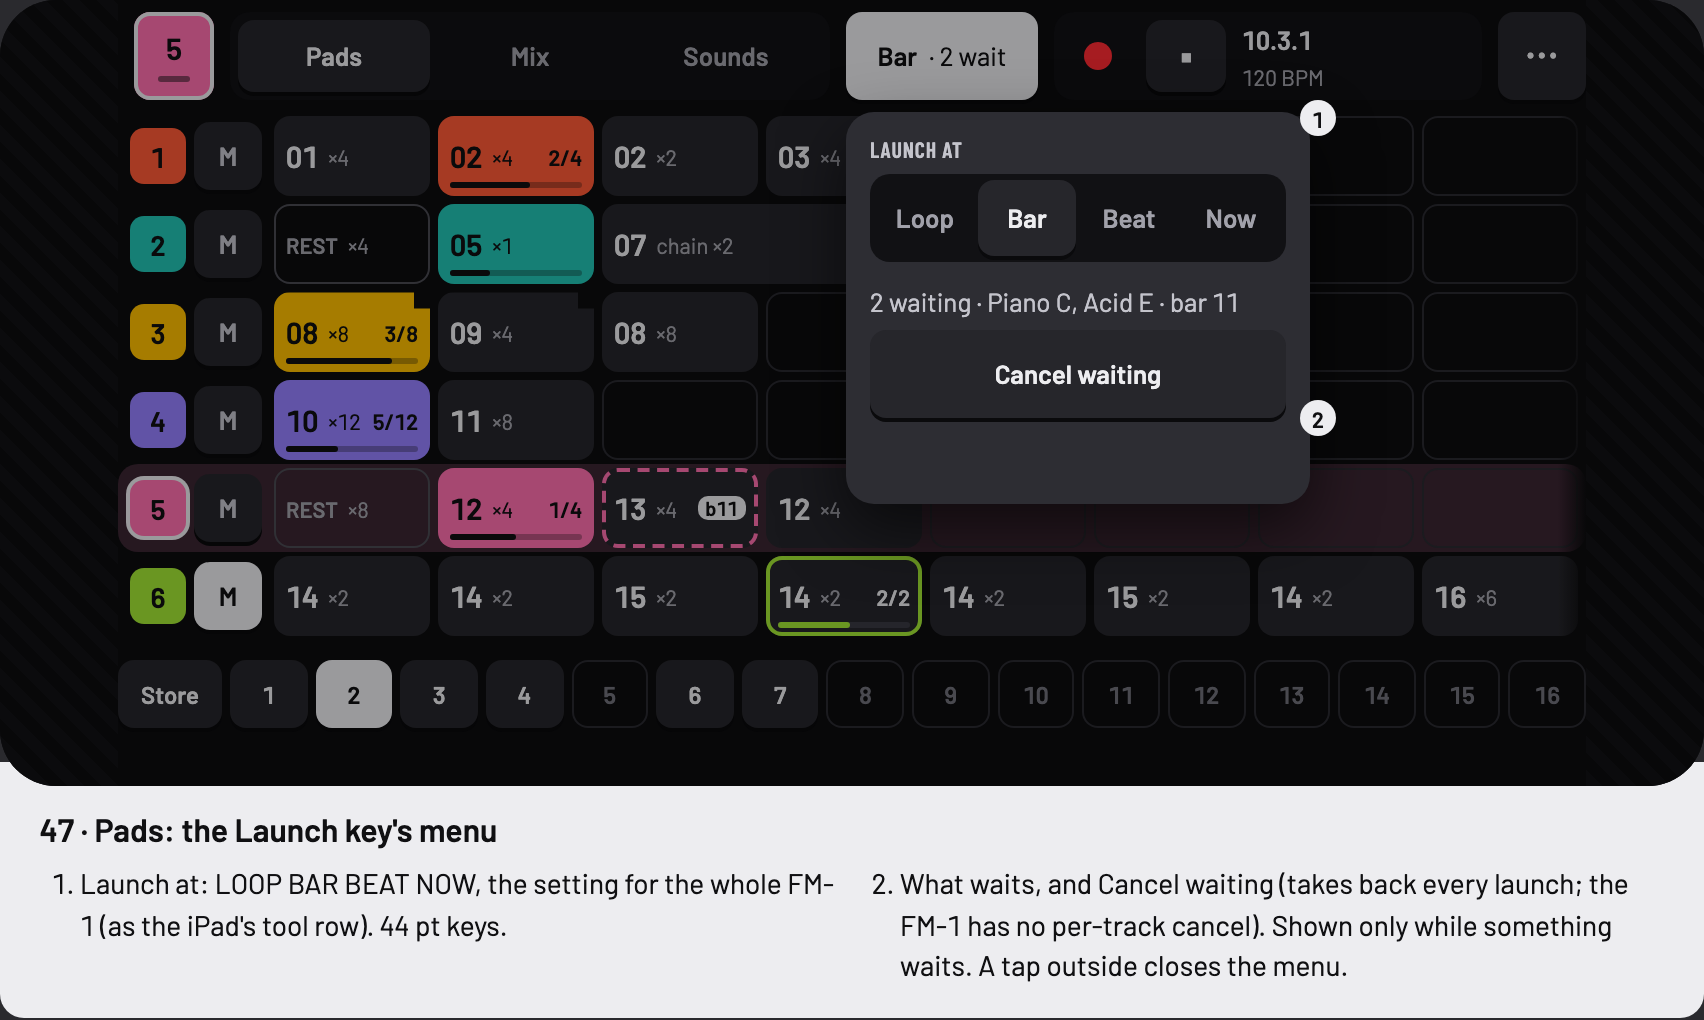
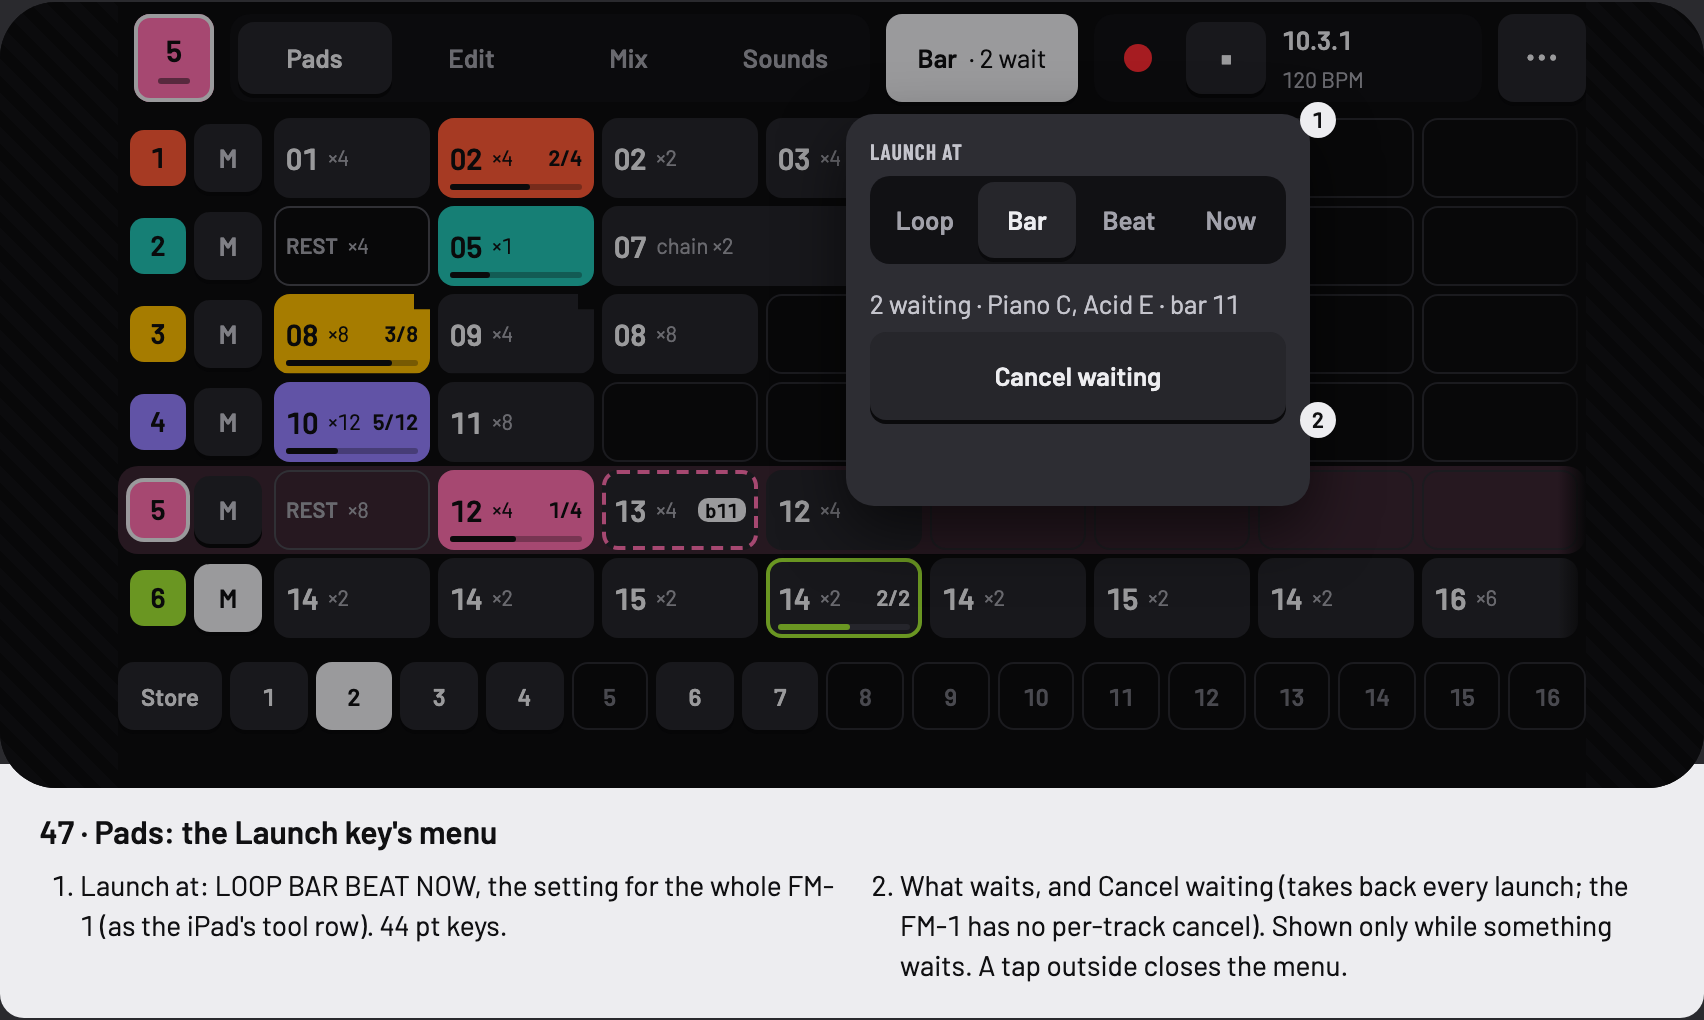
Phone with Skiff: an Edit tab (the selected pad's pattern, the step panel from the Step key); map and board 50

diff --git a/design/boards/phone-skiff.html b/design/boards/phone-skiff.html
@@ -4,7 +4,7 @@
 <meta charset="utf-8">
 <meta name="viewport" content="width=device-width, initial-scale=1">
 <title>Lupe phone, Skiff</title>
-<!-- Boards 46–49: the phone with a Skiff FM-1 (design/structure-map.md › "The phone with a Skiff FM-1"). A mock, 2026-11-10. -->
+<!-- Boards 46–50: the phone with a Skiff FM-1 (design/structure-map.md › "The phone with a Skiff FM-1"). A mock, 2026-11-10. -->
 <style>
 @font-face { font-family: Barlow; src: url(../../ios/FM1/Fonts/Barlow-Regular.ttf); font-weight: 400; }
 @font-face { font-family: Barlow; src: url(../../ios/FM1/Fonts/Barlow-SemiBold.ttf); font-weight: 600; }
@@ -31,8 +31,8 @@ h1 { font-size: 20px; font-weight: 600; margin: 0 0 4px; }
 </style>
 </head>
 <body>
-<h1>Lupe on the phone with a Skiff FM-1: Pads and Mix</h1>
-<p class="lede">852 × 393, landscape; the hatched strips are the side safe areas (59 each). Three tabs, Pads · Mix · Sounds, with Timeline left out until it's designed. Numbers in white discs match the notes under each screen. Track names and colours as the demo.</p>
+<h1>Lupe on the phone with a Skiff FM-1: Pads, Edit and Mix</h1>
+<p class="lede">852 × 393, landscape; the hatched strips are the side safe areas (59 each). Four tabs, Pads · Edit · Mix · Sounds; Timeline is left out until it's designed. Numbers in white discs match the notes under each screen. Track names and colours as the demo.</p>
 <div id="boards"></div>
 
 <script>
@@ -48,10 +48,10 @@ function topBar(tab, opts = {}) {
   let h = '';
   h += el('', 67, 6, 40, 44, `background:${COL[sel]};border-radius:8px;box-shadow:inset 0 0 0 2px #EDEDF0;display:flex;flex-direction:column;align-items:center;justify-content:center;gap:5px;color:#101012;font-size:15px;font-weight:600`,
     `${sel + 1}<span style="width:16px;height:3px;border-radius:2px;background:rgba(16,16,18,.5)"></span>`);
-  const tabs = ['Pads', 'Mix', 'Sounds'], tw = opts.launch ? 300 : 360;
+  const tabs = ['Pads', 'Edit', 'Mix', 'Sounds'], tw = opts.launch ? 320 : 360;
   h += el('rec', 115, 6, tw, 44, 'padding:4px;display:flex;gap:2px');
   tabs.forEach((t, i) => {
-    const w = (tw - 8 - 4) / 3, on = t === tab;
+    const w = (tw - 8 - 6) / 4, on = t === tab;
     h += el(on ? 'key' : '', 119 + i * (w + 2), 10, w, 36, on ? '' : 'display:flex;align-items:center;justify-content:center;font-size:13px;font-weight:600;color:var(--text2)', t);
   });
   let x = 115 + tw + 8;
@@ -195,10 +195,56 @@ function delay() {
   return h;
 }
 
+
+// Edit (board 50): the ruler, the selected pad's pattern a bar wide, the step panel in from the Step key
+function edit() {
+  const c = COL[4];
+  let h = '';
+  h += el('', 59, 58, 734, 28, 'display:flex;align-items:center;gap:8px',
+    `<span style="width:22px;height:22px;border-radius:6px;background:${c};color:#101012;font-size:12px;font-weight:600;display:flex;align-items:center;justify-content:center">5</span>
+     <span style="font-size:13px;font-weight:600">Piano · B</span>
+     <span class="key" style="height:28px;padding:0 10px;font-size:12px;gap:6px"><span style="font-weight:400;color:var(--text2r)">pattern</span>12 ▾</span>
+     <span style="font-size:12px;color:var(--text2)">C minor · 16 steps</span>
+     <span style="flex:1"></span>
+     <span class="key" style="height:28px;padding:0 10px;font-size:12px;background:#EDEDF0;color:#101012">Step 5</span>
+     <span class="key" style="height:28px;padding:0 10px;font-size:12px;gap:6px;color:var(--text2r)"><span style="width:6px;height:6px;border-radius:3px;background:#45454D"></span>Velocity</span>`);
+  // the piano roll: note names 44 wide, 16 steps of 43
+  const gx = 105, gy = 92, sw = 43, rh = 44, notes = ['D#4', 'D4', 'C4', 'A#3', 'G#3', 'G3'];
+  h += el('rec', gx, gy, 16 * sw, 6 * rh, 'border-radius:8px;overflow:hidden');
+  for (let k = 0; k < 16; k += 4) h += el('', gx + k * sw, gy, 4 * sw, 6 * rh, `background:${(k / 4) % 2 ? '#141417' : '#111114'}`);
+  notes.forEach((n, r) => {
+    h += el('', 59, gy + r * rh, 42, rh, 'display:flex;align-items:center;justify-content:flex-end;font-size:12px;color:var(--text2)', n);
+    h += el('', gx, gy + r * rh + rh - 1, 16 * sw, 1, 'background:#1E1E22');
+  });
+  [[0, 2, 2], [2, 4, 1], [4, 2, 2], [6, 3, 1], [8, 4, 2], [10, 1, 1], [12, 2, 3]].forEach(([st, r, len]) => {
+    const sel = st === 4;
+    h += el('', gx + st * sw + 2, gy + r * rh + 4, len * sw - 4, rh - 8, `background:${c};border-radius:6px;${sel ? 'box-shadow:0 0 0 2px #EDEDF0' : ''}`);
+  });
+  h += el('', gx + 6.4 * sw, gy, 2, 6 * rh, 'background:#EDEDF0;opacity:.7');
+  // the step panel, 320 wide, over the grid's right side
+  const px = 793 - 320, py = 92;
+  h += el('', px, py, 320, 266, 'background:var(--panel);border-radius:14px;box-shadow:0 14px 28px rgba(0,0,0,.55);padding:12px', `
+    <div style="font-size:11px;color:var(--text2)">T5 Piano · C4</div>
+    <div style="font-size:20px;font-weight:600;margin-top:2px">Step 5</div>`);
+  h += el('key', px + 176, py + 8, 40, 36, '', '‹') + el('key', px + 220, py + 8, 40, 36, '', '›') + el('key', px + 268, py + 8, 44, 36, 'font-size:13px', '✕');
+  const cell = (x, y, w, hh, lab, v, n, f) => el('', x, y, w, hh, 'background:var(--control);border-radius:8px;box-shadow:0 2px 0 var(--edge)',
+    `<span class="lab" style="position:absolute;left:10px;top:7px">${lab}</span>${n ? `<span style="position:absolute;right:8px;top:6px;width:15px;height:15px;border-radius:8px;background:#34343B;font-size:10px;display:flex;align-items:center;justify-content:center;color:var(--text2r)">${n}</span>` : ''}
+     <span style="position:absolute;left:10px;top:22px;font-size:18px;font-weight:600">${v}</span>
+     <span style="position:absolute;left:10px;right:10px;bottom:5px;height:3px;border-radius:2px;background:#3A3A42"><span style="display:block;height:3px;width:${f * 100}%;background:${c};border-radius:2px"></span></span>`);
+  const x0 = px + 12, cw = (296 - 6) / 2;
+  h += cell(x0, py + 56, cw, 50, 'PITCH', 'C4', 1, .5) + cell(x0 + cw + 6, py + 56, cw, 50, 'MOVE', 'Step 5', 2, .3);
+  h += cell(x0, py + 112, cw, 50, 'LENGTH', '2 steps', 3, .2) + cell(x0 + cw + 6, py + 112, cw, 50, 'VELOCITY', '100', 4, .78);
+  const fw = (296 - 18) / 4;
+  [['CHANCE', '100%', 1], ['RATCHET', '×1', 0], ['COND', '--', 0], ['NUDGE', '0', .5]].forEach(([l, v, f], i) => h += cell(x0 + i * (fw + 6), py + 170, fw, 48, l, v, 0, f));
+  h += el('', x0, py + 224, 296, 34, 'display:flex;align-items:center;justify-content:space-between',
+    `<span style="font-size:13px;font-weight:600">Sound at this step ▾</span><span class="key" style="height:34px;padding:0 12px;font-size:13px">Lock</span>`);
+  return h;
+}
+
 const BOARDS = [
   { title: '46 · Pads: the grid on the phone (board 40, with the Launch key)', html: topBar('Pads', { launch: true }) + pads() +
       disc(1, 452, 2) + disc(2, 66, 50) + disc(3, 101, 50) + disc(4, 470, 50) + disc(5, 772, 120) + disc(6, 60, 322),
-    notes: ['Three tabs: Pads · Mix · Sounds. Timeline is left out until it\'s designed (the other way: four tabs and a "not yet" card).',
+    notes: ['Four tabs: Pads · Edit · Mix · Sounds. Edit holds the selected pad\'s pattern and the step panel (board 50); Timeline is left out until it\'s designed.',
       'Row heads 72 wide: the number in the track\'s colour (tap: select the track; Piano is selected, its lane tinted). No name; VoiceOver reads it.',
       'Mute, 34 pt. The row\'s stop, as on the iPad. Track 6 is muted: its playing pad is outlined, not filled.',
       'Pads 78 × 40, the iPad\'s Half faces: number and passes on one line, the pass bar along the foot, a dashed outline and "b11" while waiting, the corner cut for a sound. A tap launches; a hold opens the menu.',
@@ -219,6 +265,13 @@ const BOARDS = [
     notes: ['Delay lit: its card fills the page. Reverb, Chorus and Global look the same, each its own card.',
       'The iPad\'s card: the four columns (the FM-1\'s knobs 1–4), a slide on one turns it. No swipe between pages, so the columns get the whole finger.',
       'The graph at the phone\'s width.'] },
+  { title: '50 · Edit: the selected pad\'s pattern, the step panel open', html: topBar('Edit', { launch: true }) + edit() +
+      disc(1, 52, 52) + disc(2, 640, 52) + disc(3, 100, 200) + disc(4, 460, 86) + disc(5, 466, 318),
+    notes: ['The ruler: the track and entry the editor shows (Piano · B, the pad selected on Pads), the pattern a menu, the scale and length.',
+      'The Step key (lit: the panel is open) and Velocity, which swaps a velocity lane in under the grid. As the SLOOP phone\'s Sequence tab.',
+      'The pattern a bar wide, the phone\'s piano roll (a kit: its drum grid). Two fingers pan; a tap on a note selects its step. No motion lanes on the phone.',
+      'The step panel, 320 wide, in from the right over the grid: the Skiff step inspector. ‹ › step along; ✕ closes it (so does the Step key).',
+      'NOTES two by two (the FM-1\'s knobs 1–4), FEEL across, Sound at this step and Lock. SEQ on the FM-1 lands here with the panel open.'] },
 ];
 document.getElementById('boards').innerHTML = BOARDS.map(b => `
   <section class="board" aria-label="${b.title}">

diff --git a/design/structure-map.md b/design/structure-map.md
@@ -107,8 +107,9 @@ About 330 pt under the 44 pt top bar, inside the side safe areas (59 each side):
 
 | Tab | What's on it | Built in this round? |
 |---|---|---|
-| **Pads** | The grid (board 40, below). | Yes |
-| **Timeline** | The song's timeline for the phone. Not designed. Until it is, **the tab is left out** (three tabs: Pads · Mix · Sounds) rather than showing a "not yet" card. *Proposed; the other way is the four tabs and a card on Timeline.* | No |
+| **Pads** | The grid (board 40; boards 46, 47). | Yes |
+| **Edit** | The selected pad's pattern and its steps (below). Takes Timeline's place on the phone for now (Scott, 2026-11-10). | Yes |
+| **Timeline** | The song's timeline for the phone. Not designed; **left out** until it is. When it comes, the phone has five tabs or Edit and Timeline share one. | No |
 | **Mix** | One section at a time, picked down the left (below). | Yes |
 | **Sounds** | As built. | — |
 
@@ -121,10 +122,21 @@ About 330 pt under the 44 pt top bar, inside the side safe areas (59 each side):
 | **Scenes** | Store (52) and the 16 scenes at 34, under the rows. Held: the preview, as on the iPad. |
 | **Launch at, Cancel waiting** | Not on the tab (no room for the tool row). Proposed: a **Launch key in the top bar**, beside play, showing the waiting count; tapped, a small menu: LOOP BAR BEAT NOW and Cancel waiting. *Board 40 named it but didn't draw it.* |
 | **The selected pad's track controls** | The border only, as at Half. |
-| **The pattern editor** | Not on the phone this round: Pads launches and mutes; patterns are edited on the iPad or the FM-1. (The map's earlier "the editor up: the selected track's row of 16, as round 4" waits for the Timeline design.) |
+| **The pattern editor** | On the Edit tab, not under the grid (no room). |
 | **Sound panel** | Unchanged by this round: whatever the FM-1's sound keys do on the phone today, they still do. |
 
 Under the 44 aim (rows 40, scenes 34, Mute 34), over the 24 floor; each has a VoiceOver way in.
+
+### Edit (board 50)
+
+*Scott, 2026-11-10: "An Edit tab", so the step panel has a way in. The SLOOP phone's Sequence tab, for Skiff.*
+
+| Part | What it holds |
+|---|---|
+| **Ruler** (28 tall) | The track and pattern the editor shows: "5 Piano · B · pattern 12", the pattern a menu (as the iPad editor's header). Then the **Step N** key and Velocity. |
+| **The grid** | The selected track's pattern a bar wide (the phone's piano roll, or its drum grid on a kit), two-finger pan along the pattern. It follows the selected pad: tap a pad on Pads, or another track's number, and Edit shows that. Motion lanes are left out on the phone. |
+| **Step panel** | **The Step N key** slides it in from the right, 320 wide, over the grid's right side; × closes it. Melodic: the Skiff step inspector (NOTES: PITCH MOVE LENGTH VELOCITY; FEEL: CHANCE RATCHET COND NUDGE; Sound at this step; Lock; ‹ › for the step). Drums: the drum step panel. A step tapped in the grid selects it; the panel follows. |
+| **The FM-1's SEQ** | Lands on Edit with the step panel open (NOTES, then FEEL), as on the iPad. PATTERN, AUTOMATION and SONG pages: Edit too, panel shut. |
 
 ### Mix
 
